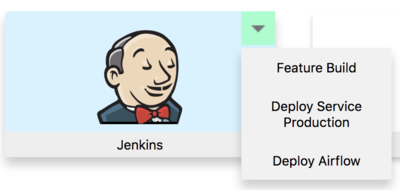
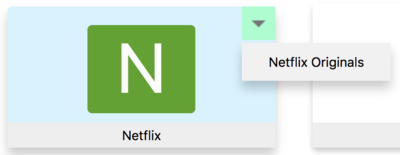
menus behind arrows bug fix

diff --git a/create.py b/create.py
@@ -221,7 +221,7 @@ def html_chip(chip_name,url,image_name,**kwargs):
         img = ''
     else:
         img =  """<img src="{image_name}">""".format(image_name=image_name)
-    return """<div class="chip"><a href="{url}">{img}{chip_name}</a></div>""".format(chip_name=chip_name,url=url,img=img)
+    return """<a href="{url}"><div class="chip">{img}{chip_name}</div></a>""".format(chip_name=chip_name,url=url,img=img)
 
 
 def html_card(card_name,url,image_name,**kwargs):
@@ -237,13 +237,13 @@ def html_card(card_name,url,image_name,**kwargs):
         for item in dropdown:
             dropdown_html += """\n<a class="dropdown-content-item" href="{url}">{name}</a>""".format(name=item[0],url=item[1])
         dropdown_html += """\n</div></div>"""
-    return """<div class="card">
+    return """<div class="card" style="z-index: {z_index};">
       {dropdown_html}
       <a href="{url}"><img src="img/blank.png" class="cardbg">{img_html}
       <div class="container" align="center">
         {card_name} 
       </div></a>
-    </div>""".format(card_name=card_name,image_name=image_name,img_html=img_html,url=url,dropdown_html=dropdown_html)
+    </div>""".format(card_name=card_name,image_name=image_name,img_html=img_html,url=url,dropdown_html=dropdown_html,z_index=100-kwargs['i'])
 
 
 def add_objects_to_file(file,csv_name,row_length,html_func):
@@ -266,7 +266,7 @@ def add_objects_to_file(file,csv_name,row_length,html_func):
                     dropdown.append((row[n], row[n+1]))
                 name = row[0]
                 image_name = get_image_name(name, alt_img)
-                file.write(html_func(name, row[1], image_name, dropdown=dropdown))
+                file.write(html_func(name, row[1], image_name, dropdown=dropdown, i=i))
                 if i % row_length == 0 and i > 0:
                     file.write('<br>')
             if csv_name == 'cards.csv' and i % row_length != 0:

diff --git a/README.md b/README.md
@@ -32,7 +32,7 @@ To do so, simply add more `name,url` tuples in each line. For example:
 HBO,http://www.hbo.com
 Netflix,http://www.netflix.com,Netflix Originals,https://www.netflix.com/il-en/originals
 ```
-For example, the image below has 3 additional links added to Jenkins:
+This second row will create the following card:
 
 ![dropdown_example](desc/dropdown.png)
 
